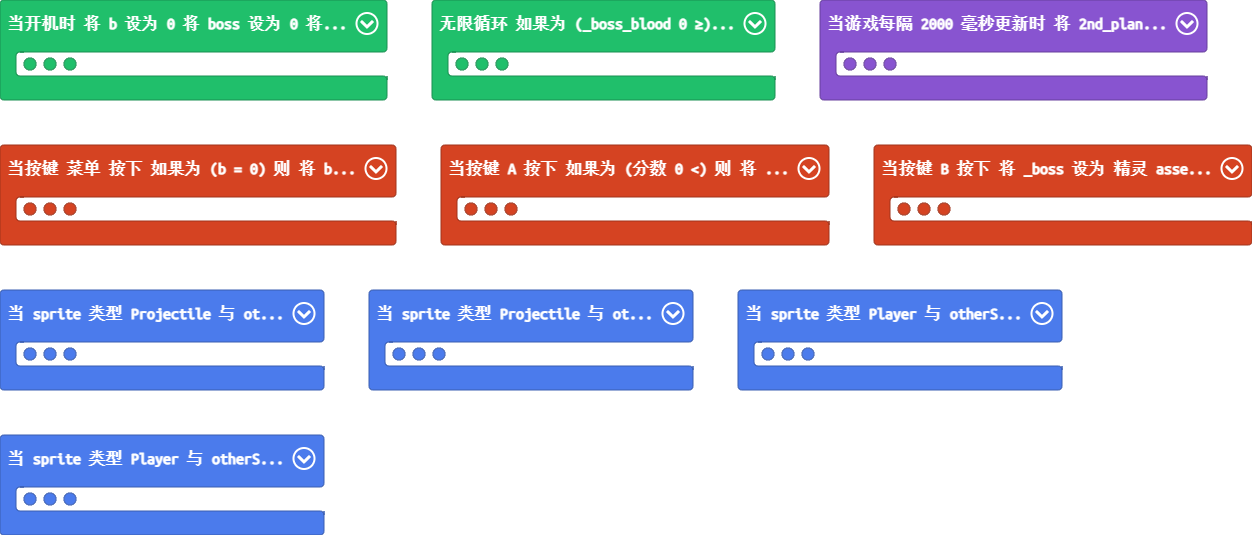
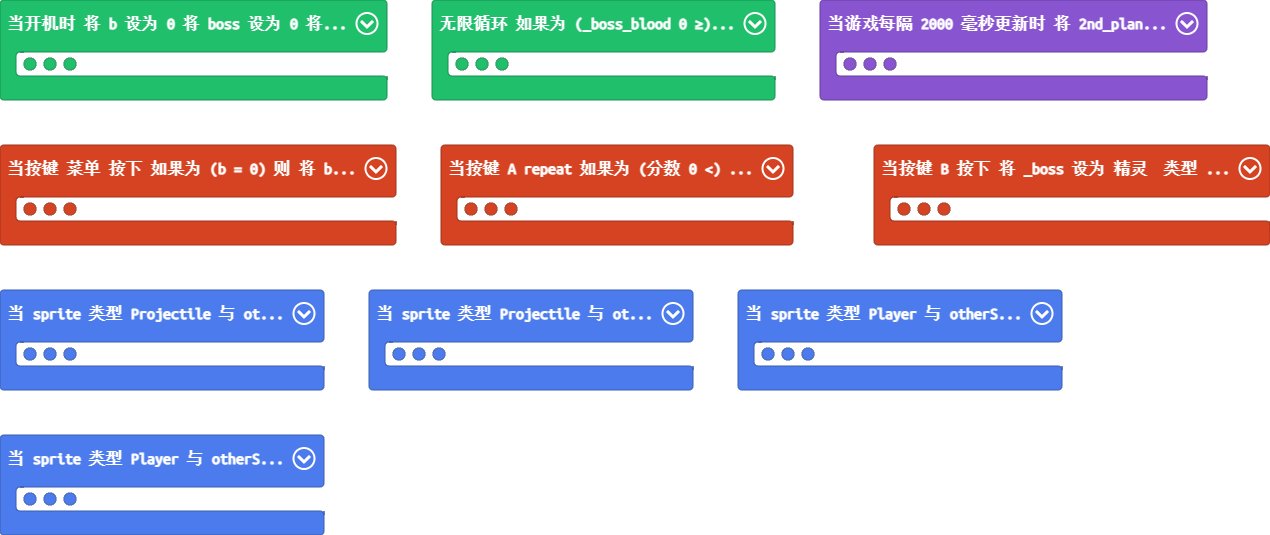
更新 main.blocks, main.ts

diff --git a/main.ts b/main.ts
@@ -12,7 +12,28 @@ sprites.onOverlap(SpriteKind.Player, SpriteKind.Boss, function (sprite, otherSpr
 sprites.onOverlap(SpriteKind.Projectile, SpriteKind.Boss, function (sprite, otherSprite) {
     _boss_blood += -1
 })
-controller.A.onEvent(ControllerButtonEvent.Pressed, function () {
+controller.B.onEvent(ControllerButtonEvent.Pressed, function () {
+    _boss = sprites.create(assets.image`boss`, SpriteKind.Boss)
+    _boss_blood = 100
+    _boss.setPosition(160, 20)
+    _boss1 = sprites.create(assets.image`boss2`, SpriteKind.Boss)
+    _boss_blood = 1000
+    _boss1.setPosition(160, 60)
+    if (_boss_blood <= 0) {
+        info.setScore(10000000000000000)
+        info.setLife(10000000000000000)
+        _boss1.destroy()
+    }
+    _boss2 = sprites.create(assets.image`boss3`, SpriteKind.Boss)
+    _boss_blood = 10000
+    _boss2.setPosition(160, 100)
+    if (_boss_blood <= 0) {
+        info.setScore(10000000000000000)
+        info.setLife(10000000000000000)
+        _boss2.destroy()
+    }
+})
+controller.A.onEvent(ControllerButtonEvent.Repeated, function () {
     if (info.score() > 0) {
         player_exp = sprites.createProjectileFromSprite(assets.image`player_exp`, player_plane, 100, 0)
         player_exp.setFlag(SpriteFlag.AutoDestroy, true)
@@ -41,32 +62,11 @@ controller.menu.onEvent(ControllerButtonEvent.Pressed, function () {
         info.setScore(10000)
     }
 })
-controller.B.onEvent(ControllerButtonEvent.Pressed, function () {
-    _boss = sprites.create(assets.image`boss`, SpriteKind.Boss)
-    _boss_blood = 100
-    _boss.setPosition(160, 20)
-    _boss1 = sprites.create(assets.image`boss2`, SpriteKind.Boss)
-    _boss_blood = 1000
-    _boss1.setPosition(160, 60)
-    if (_boss_blood <= 0) {
-        info.setScore(10000000000000000)
-        info.setLife(10000000000000000)
-        _boss1.destroy()
-    }
-    _boss2 = sprites.create(assets.image`boss3`, SpriteKind.Boss)
-    _boss_blood = 10000
-    _boss2.setPosition(160, 100)
-    if (_boss_blood <= 0) {
-        info.setScore(10000000000000000)
-        info.setLife(10000000000000000)
-        _boss2.destroy()
-    }
-})
+let _2nd_plane: Sprite = null
+let player_exp: Sprite = null
 let _boss2: Sprite = null
 let _boss1: Sprite = null
 let _boss: Sprite = null
-let _2nd_plane: Sprite = null
-let player_exp: Sprite = null
 let player_plane: Sprite = null
 let _boss_blood = 0
 let b = 0
